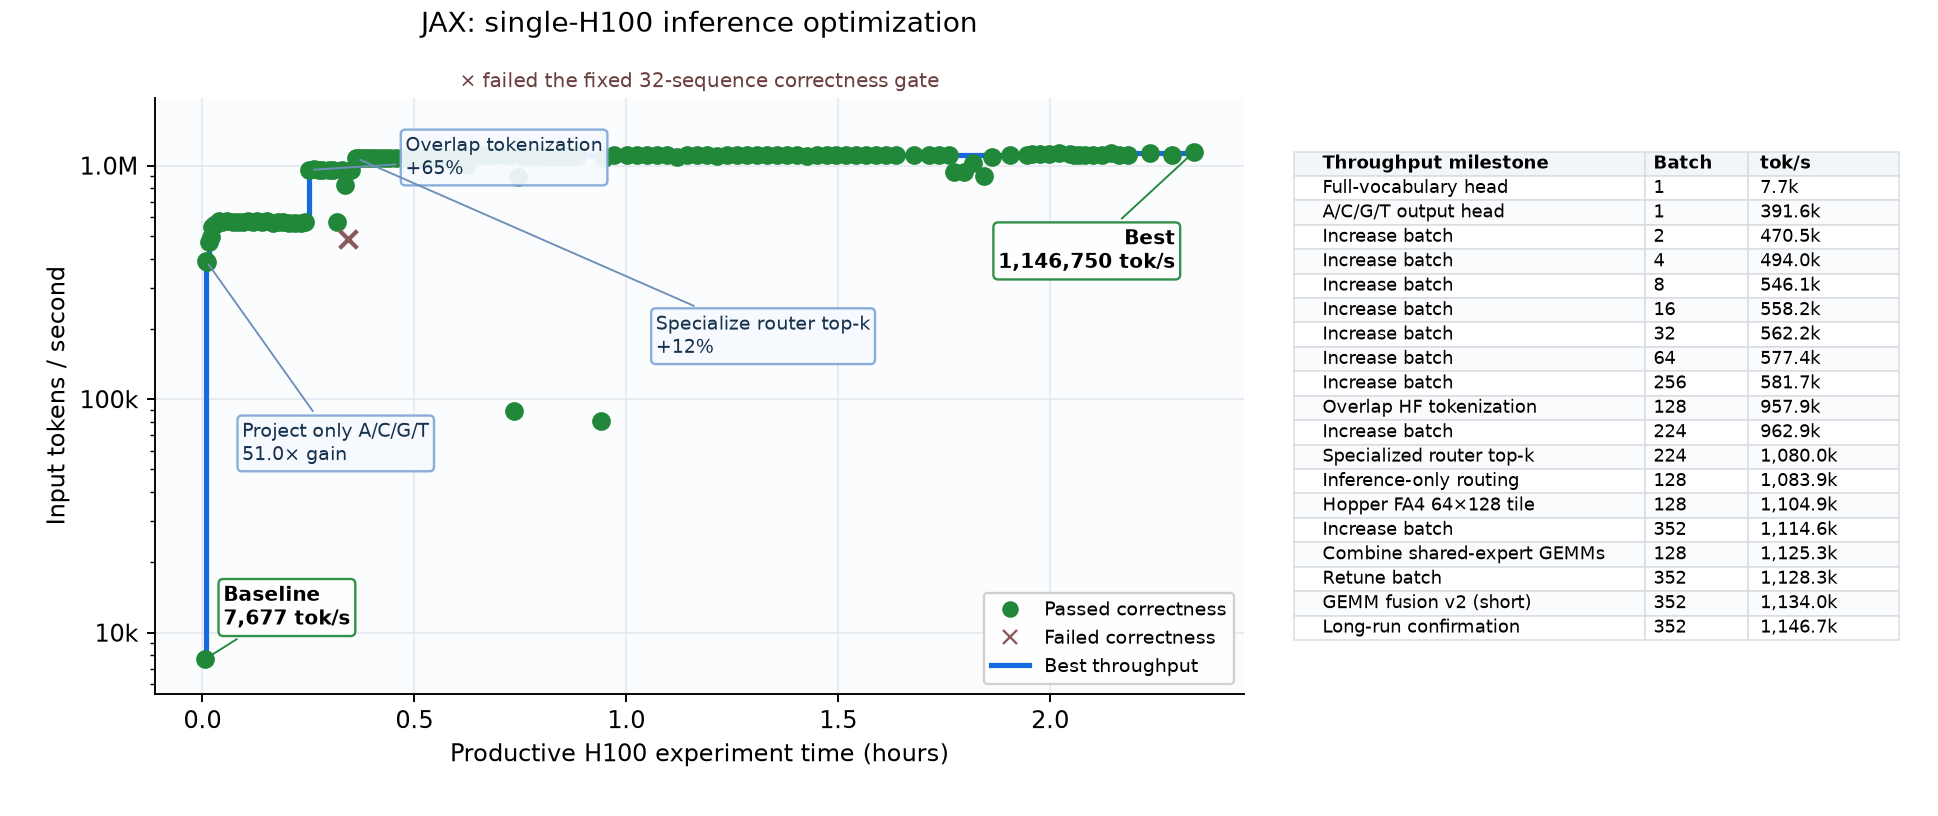
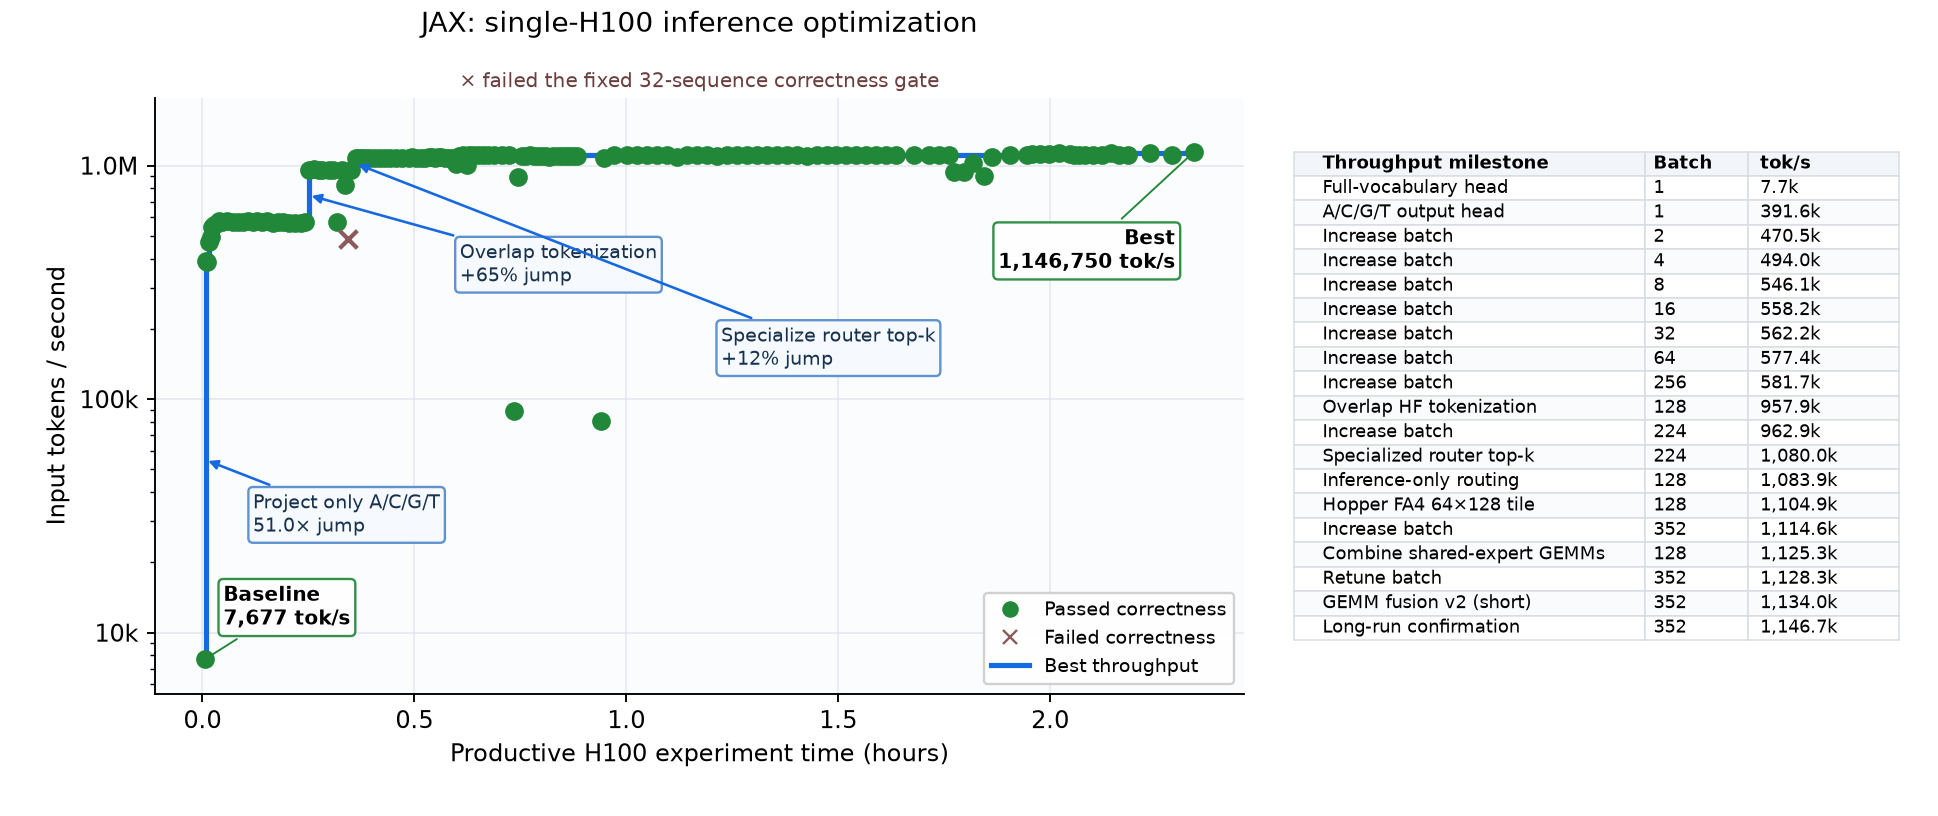
Point figure callouts at throughput jumps

Changed region(s): [[0.2167, 0.2757, 0.4954, 0.4902], [0.0929, 0.4902, 0.2477, 0.674], [0.1858, 0.1532, 0.3406, 0.2757]]

diff --git a/experiments/exp586_plantcad2_moe/src/exp586_moe/inference/plot_progress.py b/experiments/exp586_plantcad2_moe/src/exp586_moe/inference/plot_progress.py
@@ -94,19 +94,19 @@ _DISPLAY_NAMES = {
 _BACKEND_NAMES = {"jax": "JAX", "torch": "PyTorch", "vllm": "vLLM"}
 _ANNOTATED_JUMPS = {
     "jax": {
-        "acgt-output-head": ("Project only A/C/G/T", (0.08, 0.42)),
-        "jax-compact-prefetch-steady-b128": ("Overlap tokenization", (0.23, 0.90)),
-        "jax-specialized-topk-b224": ("Specialize router top-k", (0.46, 0.60)),
+        "acgt-output-head": ("Project only A/C/G/T", (0.09, 0.30)),
+        "jax-compact-prefetch-steady-b128": ("Overlap tokenization", (0.28, 0.72)),
+        "jax-specialized-topk-b224": ("Specialize router top-k", (0.52, 0.58)),
     },
     "torch": {
-        "native-grouped-moe": ("Grouped MoE kernels", (0.10, 0.43)),
-        "compiled-flex-global-flash": ("Global FlashAttention", (0.33, 0.52)),
-        "torch-prefetch-topk8-b224": ("Overlap tokenization", (0.22, 0.88)),
+        "native-grouped-moe": ("Grouped MoE kernels", (0.10, 0.30)),
+        "compiled-flex-global-flash": ("Global FlashAttention", (0.34, 0.51)),
+        "torch-prefetch-topk8-b224": ("Overlap tokenization", (0.25, 0.84)),
     },
     "vllm": {
-        "compiled-triton-bm64-b4": ("Increase request batch", (0.12, 0.28)),
-        "vllm-latest-tokenize-b224": ("Overlap tokenization", (0.26, 0.53)),
-        "vLLM-r6-async-transfer-b768": ("Overlap output transfer", (0.66, 0.48)),
+        "compiled-triton-bm64-b4": ("Increase request batch", (0.10, 0.24)),
+        "vllm-latest-tokenize-b224": ("Overlap tokenization", (0.28, 0.42)),
+        "vLLM-r6-async-transfer-b768": ("Overlap output transfer", (0.66, 0.50)),
     },
 }
 
@@ -223,10 +223,15 @@ def plot_backend(backend: Backend, ledger: Path, output: Path) -> None:
             continue
         hour, value, prior = point
         ratio = value / prior
-        gain = f"{ratio:.1f}× gain" if ratio >= 2 else f"+{(ratio - 1) * 100:.0f}%"
+        gain = f"{ratio:.1f}× jump" if ratio >= 2 else f"+{(ratio - 1) * 100:.0f}% jump"
+        jump_midpoint = (
+            math.sqrt(prior * value)
+            if backend in {"jax", "torch"}
+            else (prior + value) / 2
+        )
         axis.annotate(
             f"{label}\n{gain}",
-            (hour, value),
+            (hour, jump_midpoint),
             xytext=offset,
             textcoords="axes fraction",
             ha="left",
@@ -236,10 +241,16 @@ def plot_backend(backend: Backend, ledger: Path, output: Path) -> None:
             bbox={
                 "boxstyle": "round,pad=0.24",
                 "facecolor": "#f6f9ff",
-                "edgecolor": "#83a8d8",
-                "alpha": 0.94,
+                "edgecolor": "#5b8fcf",
+                "alpha": 0.97,
             },
-            arrowprops={"arrowstyle": "-", "color": "#6e8fb9", "linewidth": 0.8},
+            arrowprops={
+                "arrowstyle": "-|>",
+                "color": "#1769e0",
+                "linewidth": 1.1,
+                "mutation_scale": 8,
+                "shrinkB": 1,
+            },
             zorder=4,
         )
     positive = [value for value in measured if math.isfinite(value) and value > 0]
